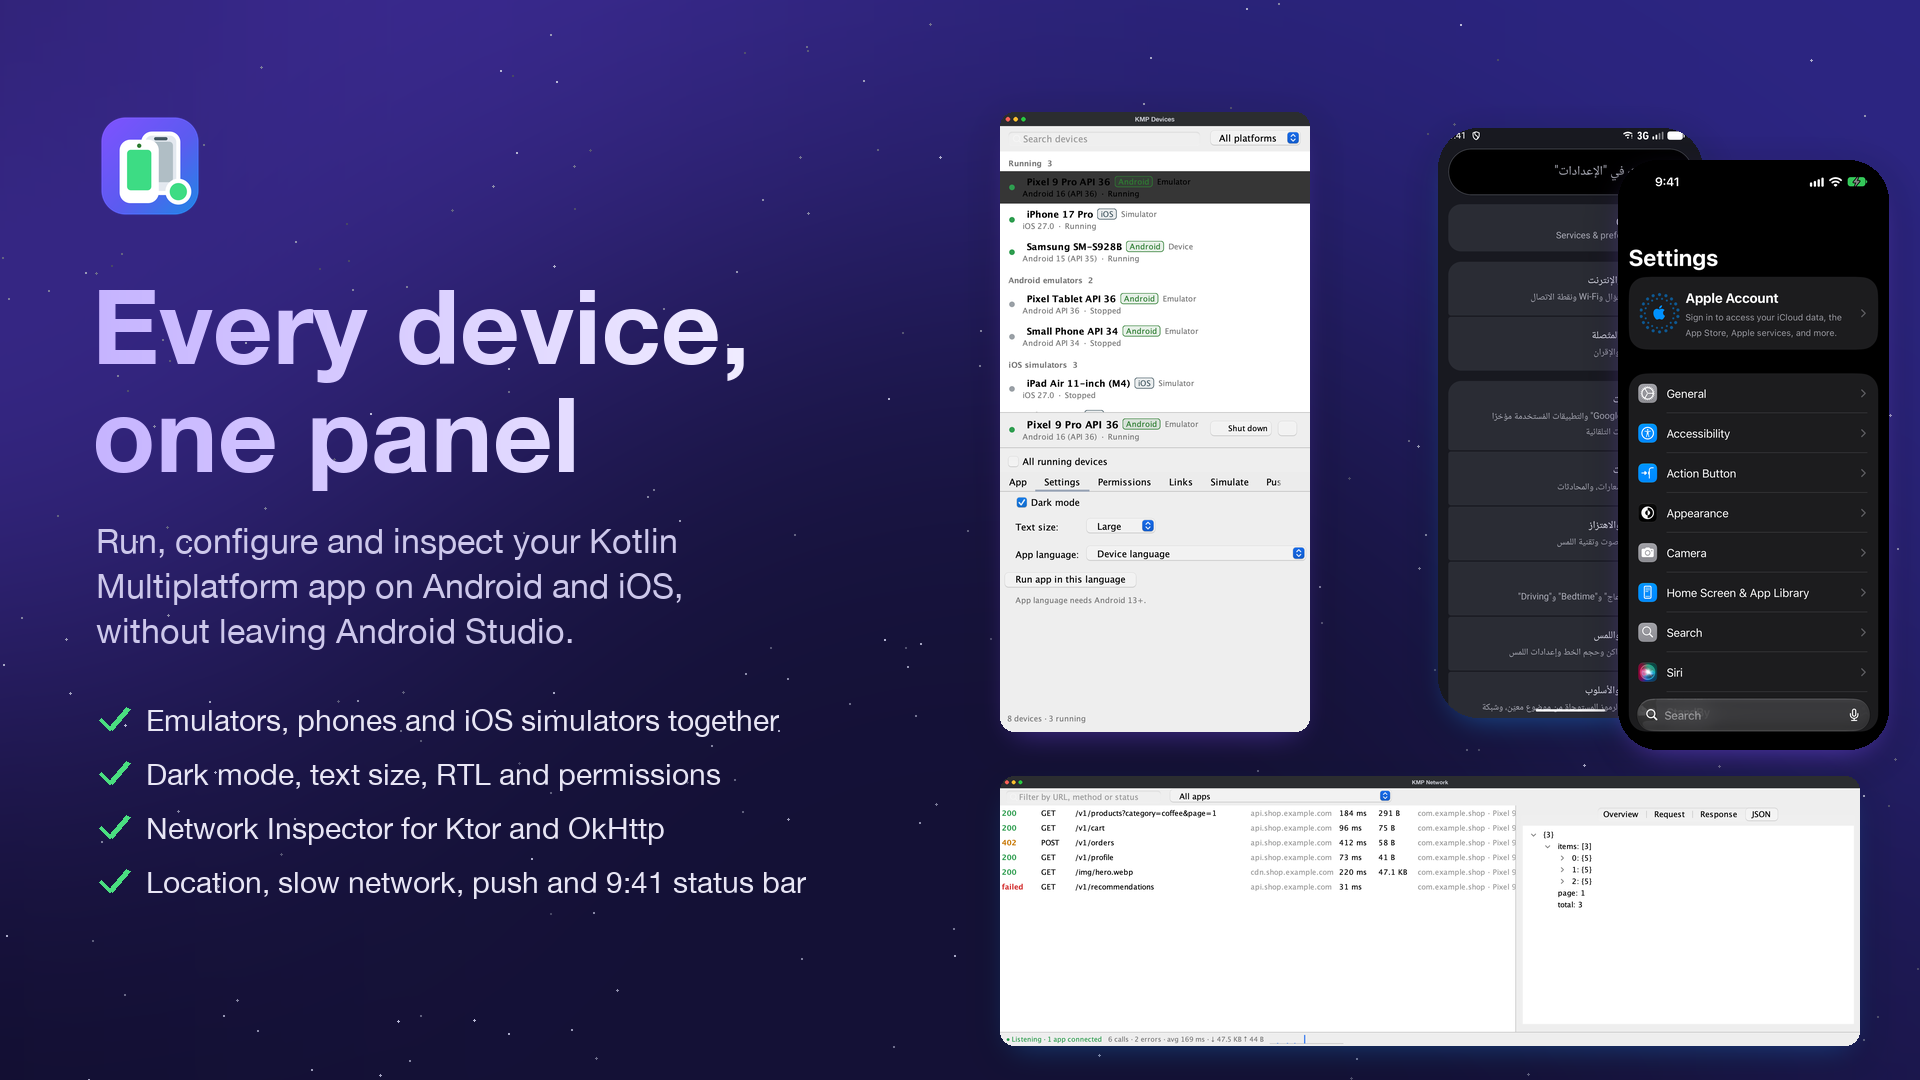
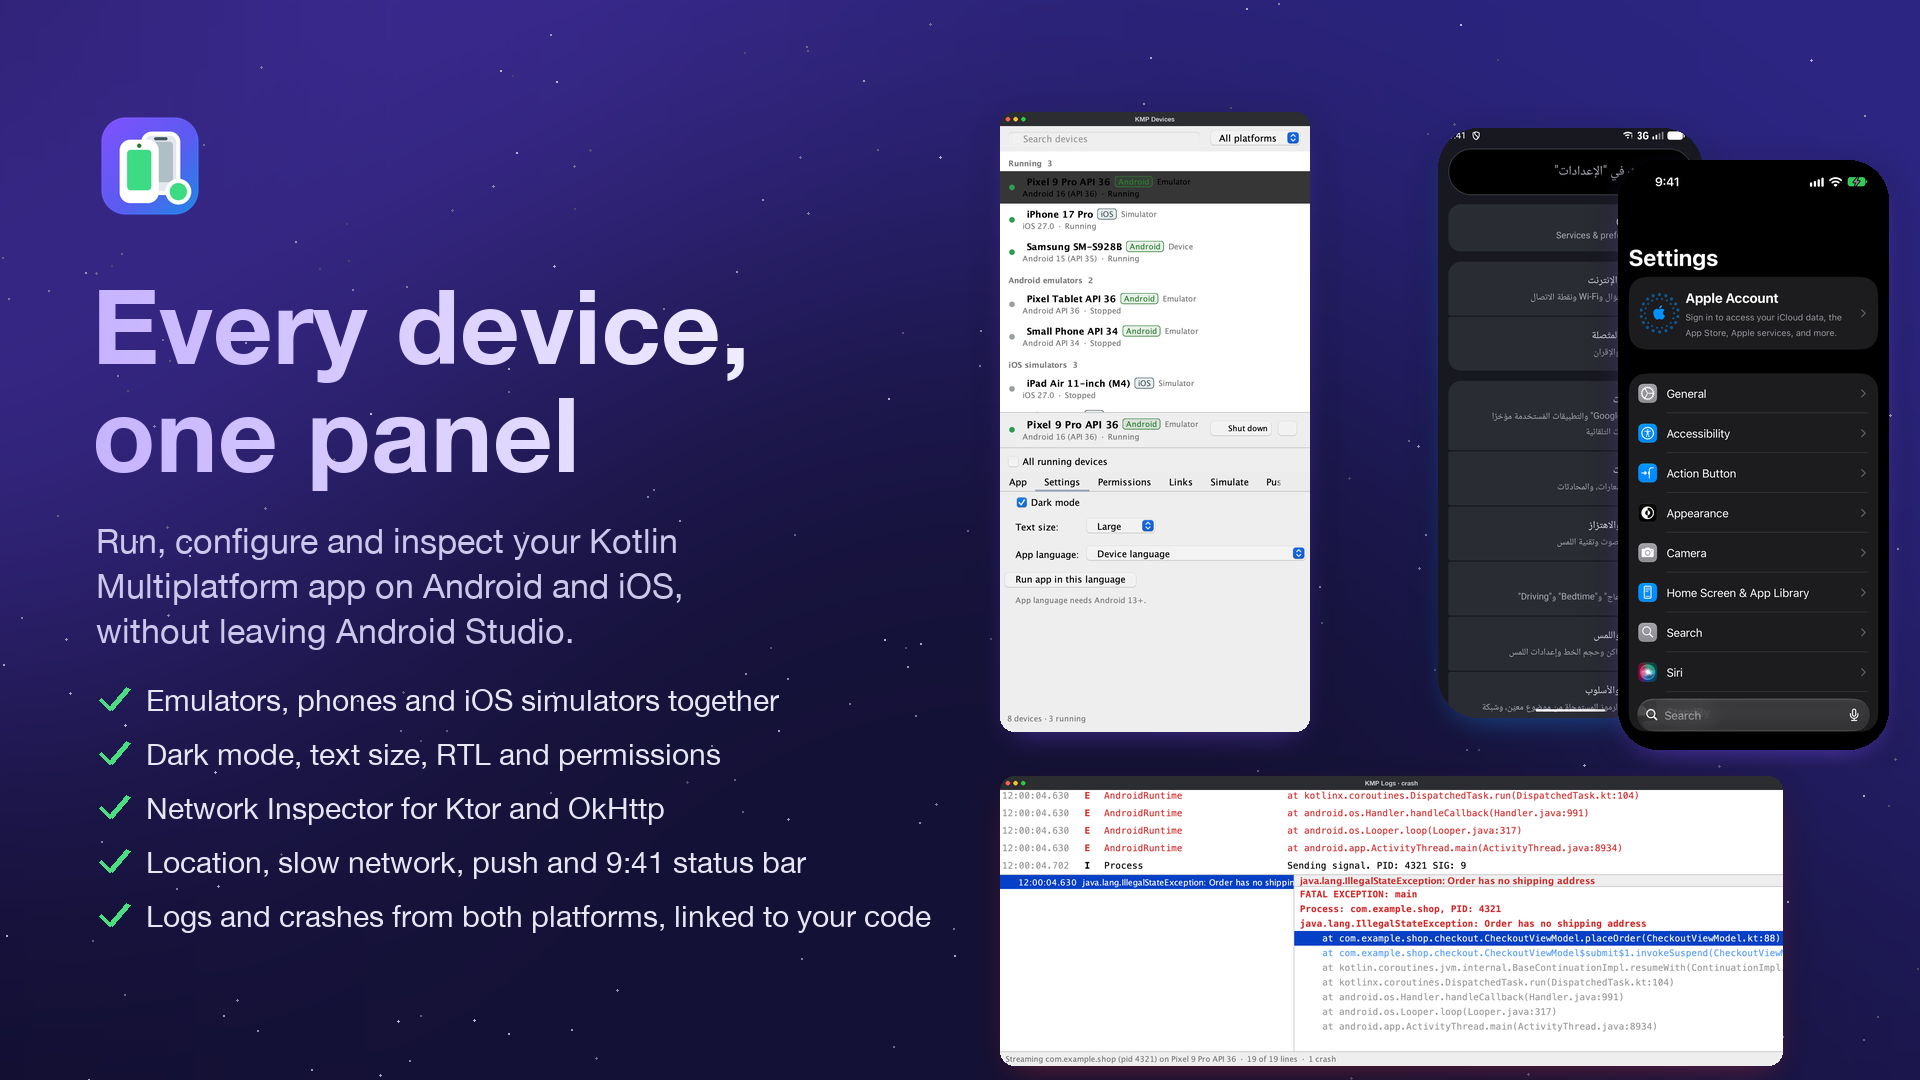
Release 0.5.0: crashes in KMP Logs, Run in locale for other plugins
- Version 0.5.0. CHANGELOG's 0.5.0 section, which becomes the
  Marketplace's What's New, leads with crash detection; the
  devicehub-network-noop line is left out until it's on Maven Central.
- Banner: a fifth point, "Logs and crashes from both platforms, linked
  to your code", and a crash in KMP Logs in place of the Network card.
  make_banner.py can reuse the Devices panel and phones from a previous
  banner when the device screenshots aren't at hand.
- README: crash notification and double-click to open a stack trace
  line; KMP Translations Hub's Run App in Selected Locale.

Changed region(s): [[0.5, 0.7028, 0.9688, 1.0], [0.0312, 0.6417, 0.5, 0.8556]]

diff --git a/tools/listing/make_banner.py b/tools/listing/make_banner.py
@@ -1,6 +1,9 @@
 """KMP Device Hub banner (1920x1080), in the same style as the KMP Dependency Hub one.
 
-python3 tools/listing/make_banner.py idea-plugin/build/listing <device-screenshots-dir> dist/listing/banner.png
+python3 tools/listing/make_banner.py idea-plugin/build/listing <device-screenshots-dir> dist/listing/banner.png [previous-banner.png]
+
+Without the device screenshots (android-rtl.png, ios-dark.png), pass a previous banner: its top right (the Devices panel
+and the two phones) is reused, on the same background, which is drawn from a fixed seed.
 """
 import random
 import sys
@@ -8,6 +11,7 @@ from pathlib import Path
 from PIL import Image, ImageChops, ImageDraw, ImageFilter, ImageFont
 
 RENDERS, FOOTAGE, OUT = Path(sys.argv[1]), Path(sys.argv[2]), Path(sys.argv[3])
+PREVIOUS = Path(sys.argv[4]) if len(sys.argv) > 4 else None
 W, H = 1920, 1080
 HELVETICA = "/System/Library/Fonts/HelveticaNeue.ttc"
 
@@ -91,23 +95,29 @@ features = [
     "Dark mode, text size, RTL and permissions",
     "Network Inspector for Ktor and OkHttp",
     "Location, slow network, push and 9:41 status bar",
+    "Logs and crashes from both platforms, linked to your code",
 ]
 for i, f in enumerate(features):
-    y = 700 + i * 54
+    y = 680 + i * 54
     # Drawn checkmark: Helvetica has no ✓ glyph.
     d.line([(100, y + 19), (110, y + 29), (128, y + 8)], fill=(74, 222, 128), width=5, joint="curve")
     d.text((146, y + 2), f, font=font(30), fill=(232, 230, 245))
 
-# Right: the real Devices panel and two real device screens in a row, the Network window underneath.
-devices = fit(window(Image.open(RENDERS / "devices-settings.png"), "KMP Devices"), 400, 620)
-android = fit(Image.open(FOOTAGE / "android-rtl.png"), 300, 590)
-iphone = fit(Image.open(FOOTAGE / "ios-dark.png"), 300, 590)
-network = fit(window(Image.open(RENDERS / "network-json.png"), "KMP Network"), 860, 290)
-
-card(canvas, devices, (1000, 112), r=14, glow=(127, 82, 255, 110))
-card(canvas, android, (1438, 128), r=40, glow=(30, 136, 229, 120))
-card(canvas, iphone, (1618, 160), r=40, glow=(127, 82, 255, 130))
-card(canvas, network, (1000, 776), r=14, glow=(30, 136, 229, 90))
+# Right: the real Devices panel and two real device screens in a row, a crash in KMP Logs underneath.
+if (FOOTAGE / "android-rtl.png").exists() or PREVIOUS is None:
+    devices = fit(window(Image.open(RENDERS / "devices-settings.png"), "KMP Devices"), 400, 620)
+    android = fit(Image.open(FOOTAGE / "android-rtl.png"), 300, 590)
+    iphone = fit(Image.open(FOOTAGE / "ios-dark.png"), 300, 590)
+    card(canvas, devices, (1000, 112), r=14, glow=(127, 82, 255, 110))
+    card(canvas, android, (1438, 128), r=40, glow=(30, 136, 229, 120))
+    card(canvas, iphone, (1618, 160), r=40, glow=(127, 82, 255, 130))
+else:
+    top_right = (960, 0, W, 768)
+    canvas.paste(Image.open(PREVIOUS).convert("RGBA").crop(top_right), top_right[:2])
+crash = Image.open(RENDERS / "logs-crash.png").convert("RGB")
+crash = crash.crop((0, int(crash.height * 0.42), int(crash.width * 0.8), crash.height))
+crash = fit(window(crash, "KMP Logs · crash"), 860, 290)
+card(canvas, crash, (1000, 776), r=14, glow=(229, 57, 53, 90))
 
 OUT.parent.mkdir(parents=True, exist_ok=True)
 canvas.convert("RGB").save(OUT, optimize=True)

diff --git a/CHANGELOG.md b/CHANGELOG.md
@@ -1,16 +1,20 @@
 # Changelog
 
-## Unreleased
+## 0.5.0
 
-- Works in IntelliJ IDEA and Android Studio 2025.1: "Start Free Trial" no longer fails there with a missing-method error. No deprecated API on any IDE from 2025.1 to 2026.3.
-- Other plugins can relaunch your app in a language on the selected device: KMP Translations Hub's "Run in this locale" uses it.
-- KMP Logs finds crashes: Android's fatal exceptions and native signals, uncaught Kotlin/Native exceptions on iOS (with "Include println"), Objective-C exceptions and Swift fatal errors. Each crash is listed under the log with its stack trace; lines in your code are links that open the file at that line, and the first one is selected.
+- KMP Logs finds crashes: Android's fatal exceptions and native signals, uncaught Kotlin/Native exceptions on iOS (with
+  "Include println"), Objective-C exceptions and Swift fatal errors. Each crash is listed under the log with its stack
+  trace; lines in your code are links that open the file at that line, and the first one is selected.
 - A notification when your app crashes while KMP Logs is hidden.
 - Double-click a stack trace line in the log to open it in the editor.
 - Export Log… saves the shown lines to a file, after a line naming the app and device.
-- Pro licenses are verified against JetBrains' signatures (license keys and license-server tickets), as JetBrains recommends.
-- In Android Studio without the JetBrains Marketplace Licensing Support plugin, Pro features explain how to install it.
-- New `devicehub-network-noop` artifact for release builds.
+- Other plugins can relaunch your app in a language on the selected device: KMP Translations Hub's "Run App in
+  Selected Locale" uses it.
+- Works in IntelliJ IDEA and Android Studio 2025.1: "Start Free Trial" no longer fails there with a missing-method
+  error. No deprecated API on any IDE from 2025.1 to 2026.3.
+- Pro licenses are verified against JetBrains' signatures (license keys and license-server tickets), as JetBrains
+  recommends; in Android Studio without the JetBrains Marketplace Licensing Support plugin, Pro features explain how to
+  install it.
 
 ## 0.4.0
 

diff --git a/README.md b/README.md
@@ -42,7 +42,9 @@ a platform filter. Start or shut down any of them, and launch, stop, clear or un
 ### Dark mode, text size and right-to-left
 
 Switch appearance and text size on Android and iOS, and run your app in another language, including Arabic, Urdu and
-Hebrew for right-to-left layouts. The app restarts in the new language on both platforms.
+Hebrew for right-to-left layouts. The app restarts in the new language on both platforms. With
+[KMP Translations Hub](https://plugins.jetbrains.com/plugin/35376-kmp-translations-hub) installed, **Run App in Selected
+Locale** in its Translations table does the same for the language of the column you're in.
 
 <img src="docs/screenshots/02-appearance-language.png" alt="Settings tab with an iPhone at the largest text size and Android in Arabic" width="900">
 
@@ -74,7 +76,8 @@ copy or export what you see.
 
 When your app crashes (an Android fatal exception, an uncaught Kotlin/Native exception, an Objective-C exception or a
 Swift fatal error), the crash appears under the log with its stack trace. Lines in your own code are links to the
-source, and the first of them is already selected.
+source, and the first of them is already selected; double-click a stack trace line in the log to open it too. If KMP
+Logs is hidden when your app crashes, a notification tells you.
 
 <img src="docs/screenshots/10-crashes.png" alt="KMP Logs with an Android crash and its stack trace linked to the source" width="900">
 
